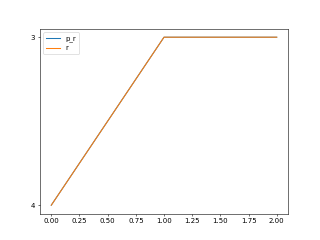
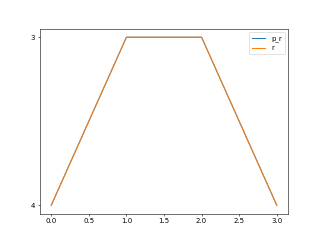
0x0003

diff --git a/benchmark.md b/benchmark.md
@@ -12,3 +12,7 @@ Synthesising 0x0002 pexact:152 r=3 exact:152 r=3
 
 ![Bench_1](benchmark_r.png) ![Bench_2](benchmark_s.png  )
 
+Synthesising 0x0003 pexact:182 r=4 exact:312 r=4
+
+![Bench_1](benchmark_r.png) ![Bench_2](benchmark_s.png  )
+
